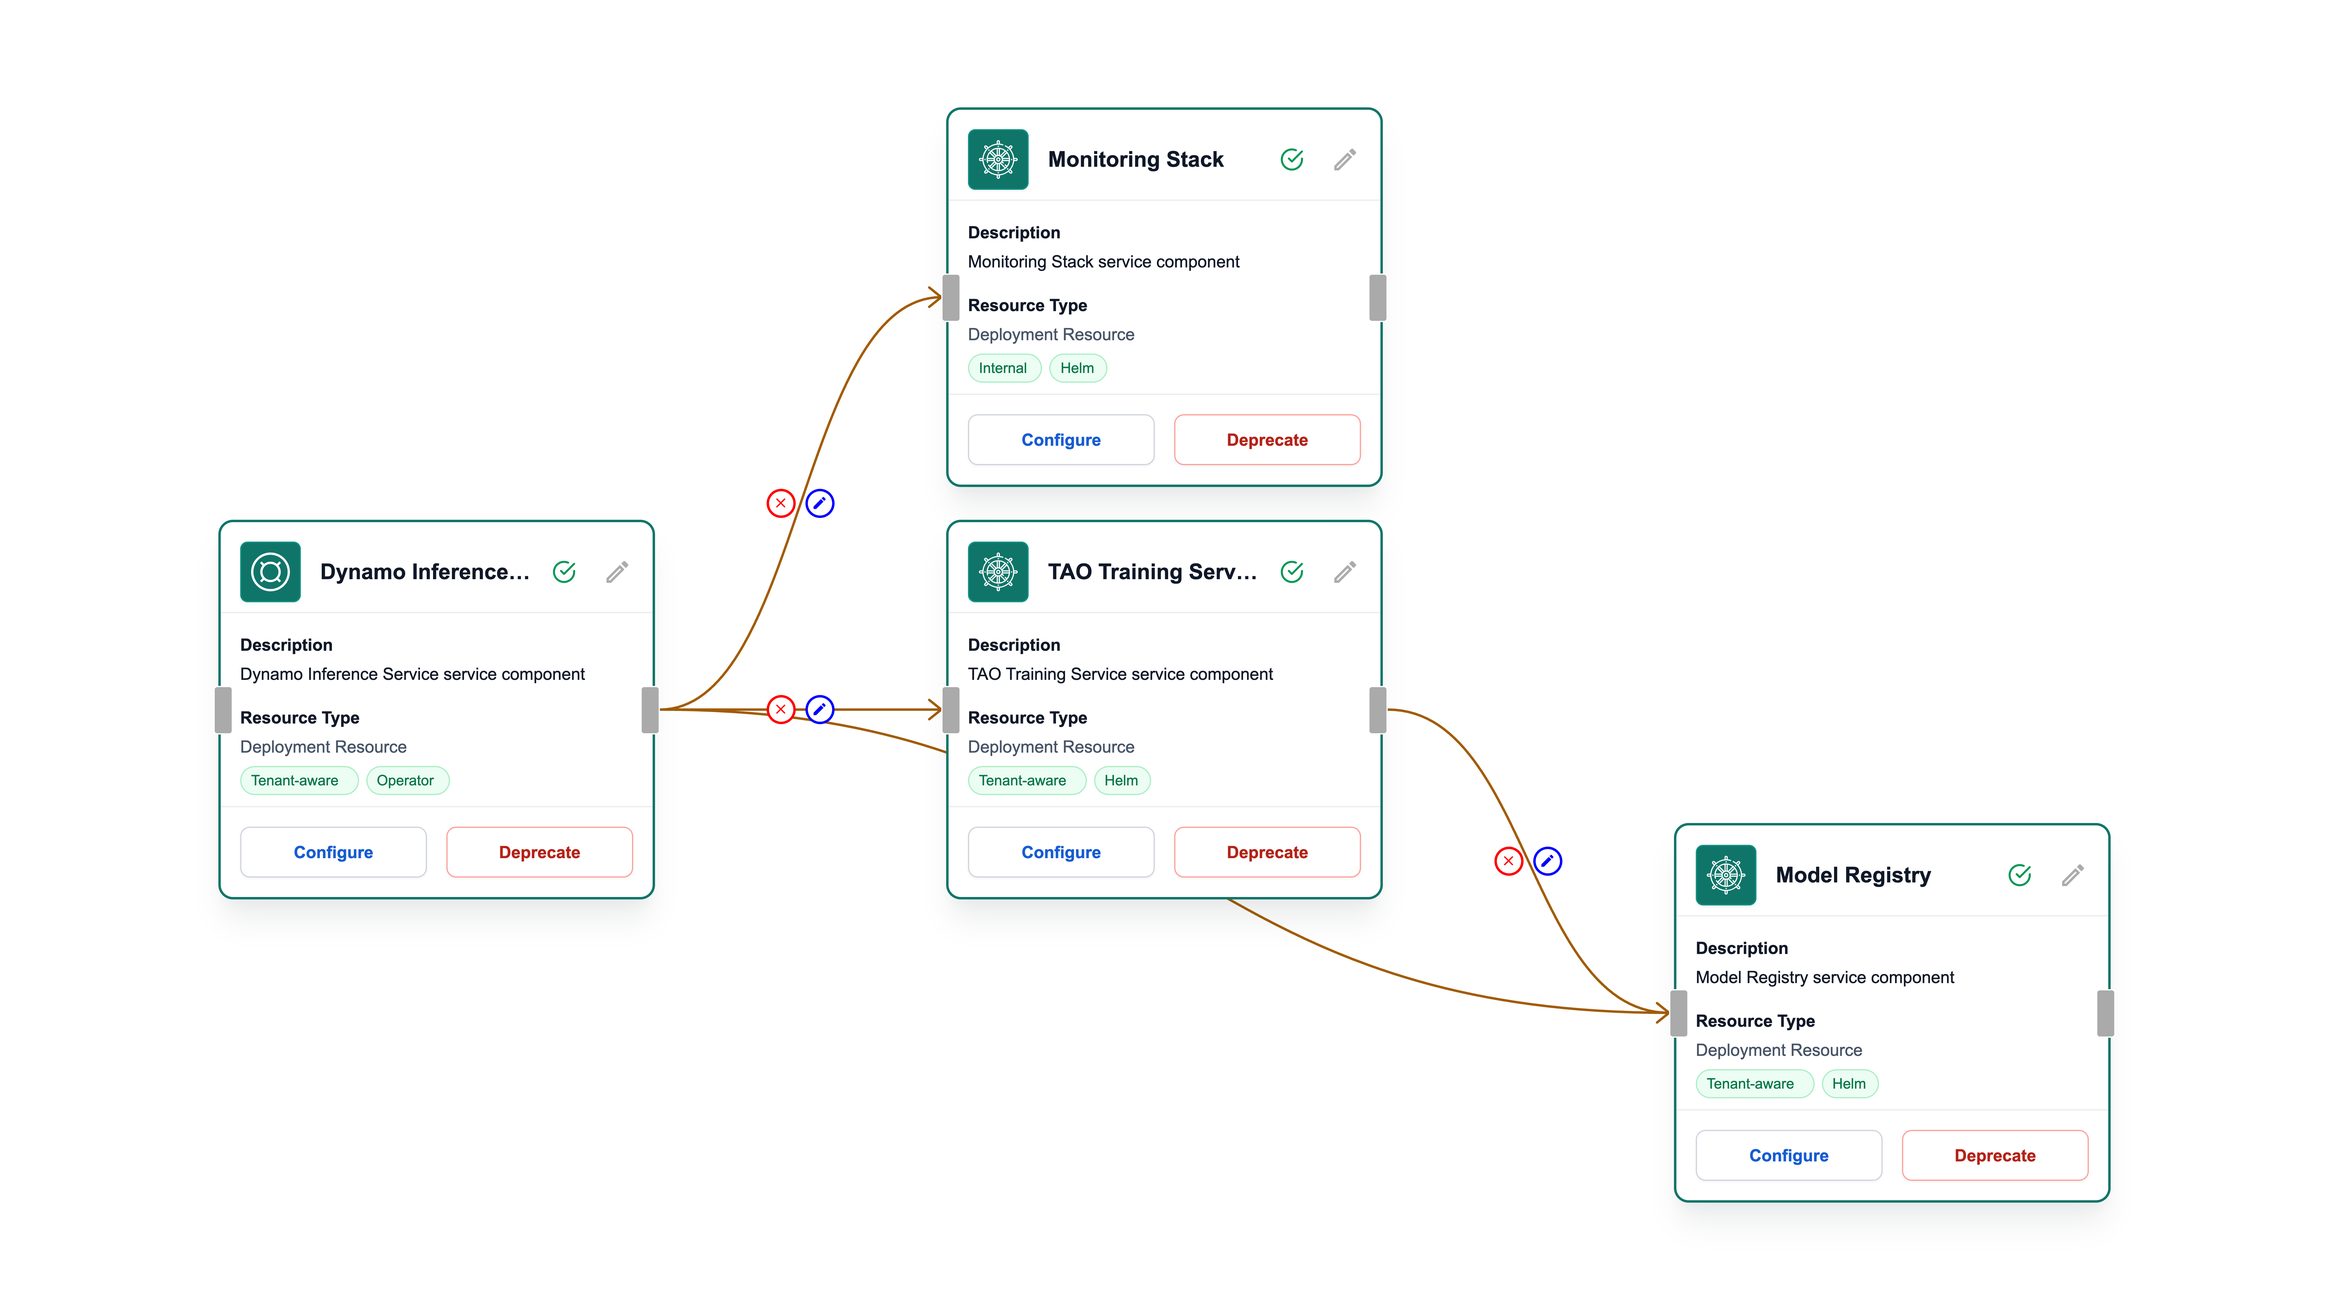
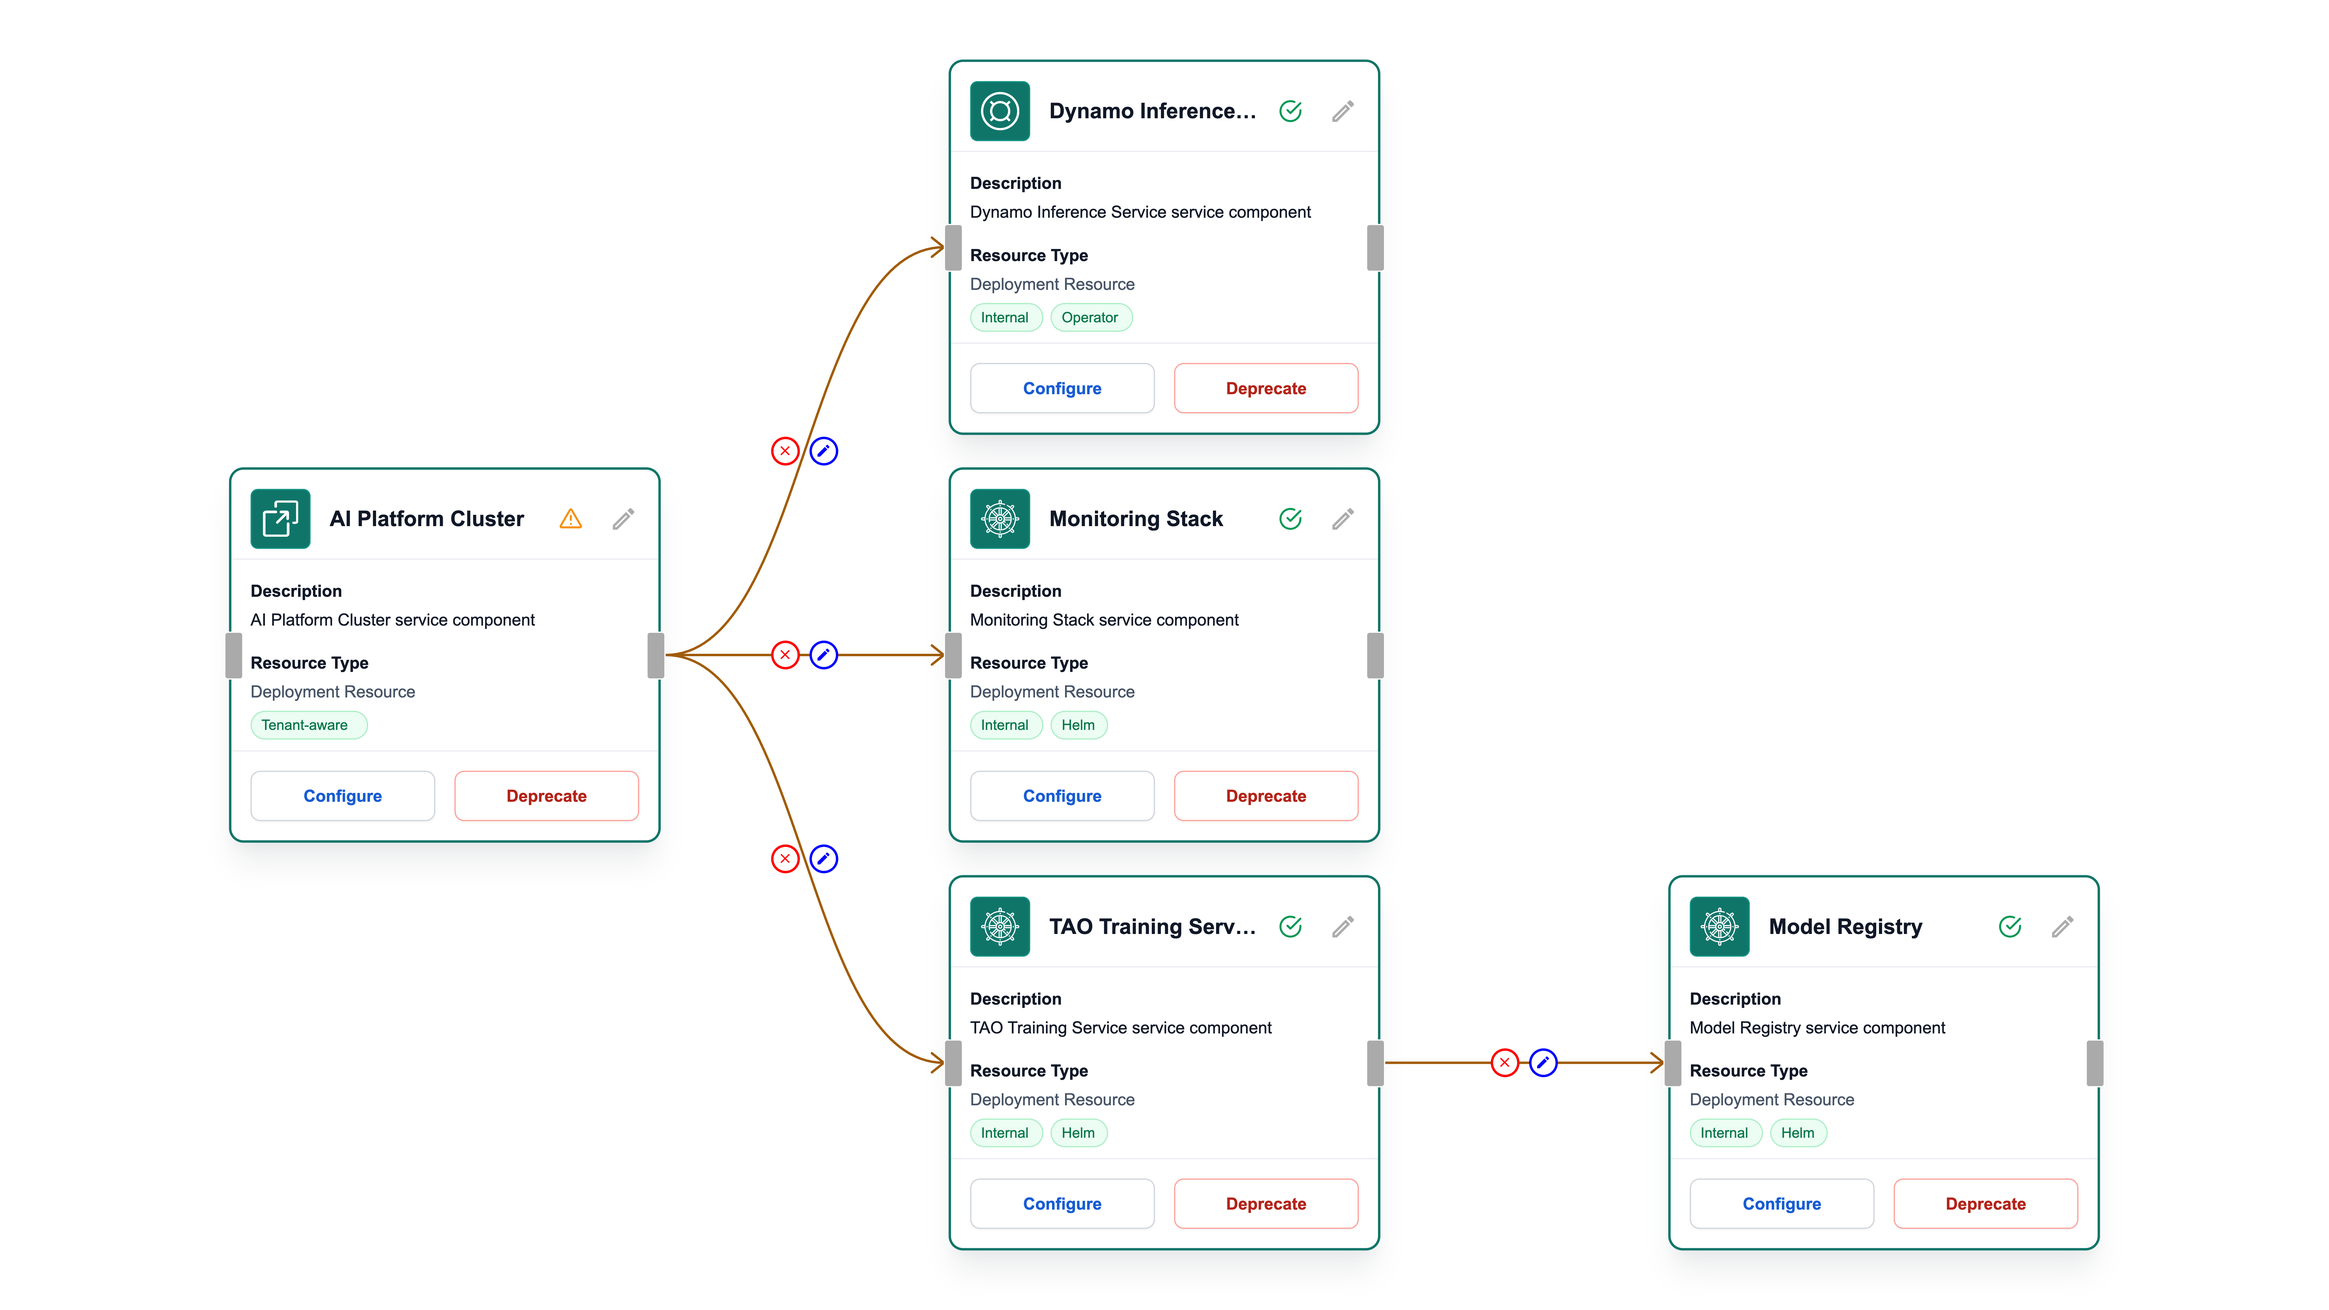
Add new cluster method

diff --git a/README.md b/README.md
@@ -11,70 +11,49 @@ This is a comprehensive example of an enterprise-grade NVIDIA AI/ML platform spe
 ![NVIDIA AI Multi-Cloud Pipeline](nvidia-ai-multi-cloud-pipeline-blueprint.png)
 
 ```
+```
 ┌─────────────────────────────────────────────────────────────────────────────────────────┐
 │                        NVIDIA AI Multi-Cloud Pipeline                                   │
 │                          Powered by Omnistrate Platform                                 │
 └─────────────────────────────────────────────────────────────────────────────────────────┘
 
-┌─────────────────────────┐    ┌─────────────────────────┐    ┌─────────────────────────┐
-│          AWS            │    │          GCP            │    │        Azure            │
-│                         │    │                         │    │                         │
-│  ┌───────────────────┐  │    │  ┌───────────────────┐  │    │  ┌───────────────────┐  │
-│  │    AI Gateway     │  │    │  │    AI Gateway     │  │    │  │    AI Gateway     │  │
-│  │   (Load Balancer) │  │    │  │   (Load Balancer) │  │    │  │   (Load Balancer) │  │
-│  └─────────┬─────────┘  │    │  └─────────┬─────────┘  │    │  └─────────┬─────────┘  │
-│            │            │    │            │            │    │            │            │
-│  ┌─────────▼─────────┐  │    │  ┌─────────▼─────────┐  │    │  ┌─────────▼─────────┐  │
-│  │ NVIDIA Dynamo     │  │    │  │ NVIDIA Dynamo     │  │    │  │ NVIDIA Dynamo     │  │
-│  │ Inference Service │  │    │  │ Inference Service │  │    │  │ Inference Service │  │
-│  │ ┌───────────────┐ │  │    │  │ ┌───────────────┐ │  │    │  │ ┌───────────────┐ │  │
-│  │ │ T4 GPU Pods   │ │  │    │  │ │ T4 GPU Pods   │ │  │    │  │ │ T4 GPU Pods   │ │  │
-│  │ │ Auto-scaling  │ │  │    │  │ │ Auto-scaling  │ │  │    │  │ │ Auto-scaling  │ │  │
-│  │ │ KV Cache      │ │  │    │  │ │ KV Cache      │ │  │    │  │ │ KV Cache      │ │  │
-│  │ └───────────────┘ │  │    │  │ └───────────────┘ │  │    │  │ └───────────────┘ │  │
-│  └─────────┬─────────┘  │    │  └─────────┬─────────┘  │    │  └─────────┬─────────┘  │
-│            │            │    │            │            │    │            │            │
-│  ┌─────────▼─────────┐  │    │  ┌─────────▼─────────┐  │    │  ┌─────────▼─────────┐  │
-│  │ NVIDIA TAO        │  │    │  │ NVIDIA TAO        │  │    │  │ NVIDIA TAO        │  │
-│  │ Training Service  │  │    │  │ Training Service  │  │    │  │ Training Service  │  │
-│  │ ┌───────────────┐ │  │    │  │ ┌───────────────┐ │  │    │  │ ┌───────────────┐ │  │
-│  │ │ T4 GPU Nodes  │ │  │    │  │ │ T4 GPU Nodes  │ │  │    │  │ │ T4 GPU Nodes  │ │  │
-│  │ │ Jupyter Labs  │ │  │    │  │ │ Jupyter Labs  │ │  │    │  │ │ Jupyter Labs  │ │  │
-│  │ │ TensorBoard   │ │  │    │  │ │ TensorBoard   │ │  │    │  │ │ TensorBoard   │ │  │
-│  │ │ Distributed   │ │  │    │  │ │ Distributed   │ │  │    │  │ │ Distributed   │ │  │
-│  │ └───────────────┘ │  │    │  │ └───────────────┘ │  │    │  │ └───────────────┘ │  │
-│  └─────────┬─────────┘  │    │  └─────────┬─────────┘  │    │  └─────────┬─────────┘  │
-│            │            │    │            │            │    │            │            │
-│  ┌─────────▼─────────┐  │    │  ┌─────────▼─────────┐  │    │  ┌─────────▼─────────┐  │
-│  │ Model Registry    │  │    │  │ Model Registry    │  │    │  │ Model Registry    │  │
-│  │ (MinIO S3 API)    │  │    │  │ (MinIO S3 API)    │  │    │  │ (MinIO S3 API)    │  │
-│  │ ┌───────────────┐ │  │    │  │ ┌───────────────┐ │  │    │  │ ┌───────────────┐ │  │
-│  │ │ Models Bucket │ │  │    │  │ │ Models Bucket │ │  │    │  │ │ Models Bucket │ │  │
-│  │ │Datasets Bucket│ │  │    │  │ │Datasets Bucket│ │  │    │  │ │Datasets Bucket│ │  │
-│  │ │Checkpoint Bkt │ │  │    │  │ │Checkpoint Bkt │ │  │    │  │ │Checkpoint Bkt │ │  │
-│  │ │ Versioning    │ │  │    │  │ │ Versioning    │ │  │    │  │ │ Versioning    │ │  │
-│  │ └───────────────┘ │  │    │  │ └───────────────┘ │  │    │  │ └───────────────┘ │  │
-│  └─────────┬─────────┘  │    │  └─────────┬─────────┘  │    │  └─────────┬─────────┘  │
-│            │            │    │            │            │    │            │            │
-│  ┌─────────▼─────────┐  │    │  ┌─────────▼─────────┐  │    │  ┌─────────▼─────────┐  │
-│  │   Monitoring      │  │    │  │   Monitoring      │  │    │  │   Monitoring      │  │
-│  │ (Prometheus +     │  │    │  │ (Prometheus +     │  │    │  │ (Prometheus +     │  │
-│  │  Grafana Stack)   │  │    │  │  Grafana Stack)   │  │    │  │  Grafana Stack)   │  │
-│  │ ┌───────────────-┐│  │    │  │ ┌───────────────-┐│  │    │  │ ┌───────────────-┐│  │
-│  │ │ GPU Metrics    ││  │    │  │ │ GPU Metrics    ││  │    │  │ │ GPU Metrics    ││  │
-│  │ │Training Metrics││  │    │  │ │Training Metrics││  │    │  │ │Training Metrics││  │
-│  │ │Inference Perf  ││  │    │  │ │Inference Perf  ││  │    │  │ │Inference Perf  ││  │
-│  │ │ Cost Analytics ││  │    │  │ │ Cost Analytics ││  │    │  │ │ Cost Analytics ││  │
-│  │ └───────────────-┘│  │    │  │ └───────────────-┘│  │    │  │ └───────────────-┘│  │
-│  └───────────────────┘  │    │  └───────────────────┘  │    │  └───────────────────┘  │
-└─────────────────────────┘    └─────────────────────────┘    └─────────────────────────┘
+┌─────────────────┐     ┌─────────────────┐     ┌─────────────────┐     ┌─────────────────┐
+│                 │     │                 │     │                 │     │                 │
+│  Model Registry │────▶│ TAO Training    │────▶│ Dynamo Inference│────▶│   Monitoring    │
+│   (MinIO S3)    │     │   Service       │     │    Service      │     │    Stack        │
+│                 │     │                 │     │                 │     │                 │
+│ ┌─────────────┐ │     │ ┌─────────────┐ │     │ ┌─────────────┐ │     │ ┌─────────────┐ │
+│ │   Models    │ │     │ │ TAO Toolkit │ │     │ │   Dynamo    │ │     │ │ Prometheus  │ │
+│ │  Datasets   │ │     │ │ TensorFlow  │ │     │ │ TensorRT-LLM│ │     │ │   Grafana   │ │
+│ │ Checkpoints │ │     │ │  PyTorch    │ │     │ │ Auto-scaling│ │     │ │ Dashboards  │ │
+│ │ Versioning  │ │     │ │ Jupyter Lab │ │     │ │ Multi-replica│ │     │ │GPU Metrics │ │
+│ │             │ │     │ │TensorBoard  │ │     │ │   CRDs      │ │     │ │ Alerting    │ │
+│ └─────────────┘ │     │ └─────────────┘ │     │ └─────────────┘ │     │ └─────────────┘ │
+│                 │     │                 │     │                 │     │                 │
+│ Multi-Cloud:    │     │ Multi-Cloud:    │     │ Multi-Cloud:    │     │ Multi-Cloud:    │
+│ AWS: m7i.large  │     │ AWS: g4dn.xlarge│     │ AWS: g4dn.xlarge│     │ AWS: m5.xlarge  │
+│ GCP: n2-std-2   │     │ GCP: n2-std-4+L4│     │ GCP: n2-std-4+L4│     │ GCP: n2-std-4   │
+│ Azure: D2s_v3   │     │ Azure: NC4as_T4 │     │ Azure: NC4as_T4 │     │ Azure: D4s_v3   │
+│                 │     │                 │     │                 │     │                 │
+└─────────────────┘     └─────────────────┘     └─────────────────┘     └─────────────────┘
+
+┌─────────────────────────────────────────────────────────────────────────────────────────┐
+│                         Data Flow & Dependencies                                         │
+│                                                                                          │
+│  Storage Layer    ────▶    Training Layer    ────▶    Inference Layer   ────▶  Observability │
+│                                                                                          │
+│  • S3-compatible         • Model training           • Real-time serving      • Metrics collection │
+│  • Multi-bucket org      • Transfer learning        • Auto-scaling           • GPU monitoring    │
+│  • Cross-cloud sync      • Distributed compute      • Load balancing         • Cost analytics    │
+│  • Version control       • Experiment tracking      • A/B testing            • Alerting          │
+└─────────────────────────────────────────────────────────────────────────────────────────┘
 
 ┌────────────────────────────────────────────────────────────────────────────────────────-─┐
 │                               NVIDIA OSS Ecosystem                                       │
 │                                                                                          │
 │  ┌─────────────┐    ┌─────────────-┐    ┌─────────────┐    ┌─────────────┐               │
-│  │ TAO Toolkit │    │   Dynamo     │    │   MinIO     │    │ Prometheus  │               │
-│  │   (OSS)     │    │    (OSS)     │    │  (OSS S3)   │    │   (OSS)     │               │
+│  │ TAO Toolkit │    │   Dynamo     │    │   MinIO     │    │kube-prometheus│               │
+│  │   (OSS)     │    │    (OSS)     │    │  (OSS S3)   │    │   -stack    │               │
 │  │ TensorFlow  │    │ TensorRT-LLM │    │ Model Store │    │ Monitoring  │               │
 │  │   PyTorch   │    │ Disaggregated│    │ Versioning  │    │ & Alerting  │               │
 │  └─────────────┘    └─────────────-┘    └─────────────┘    └─────────────┘               │
